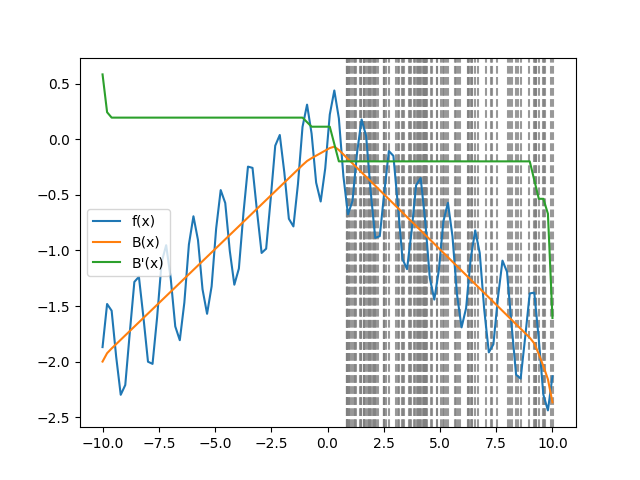
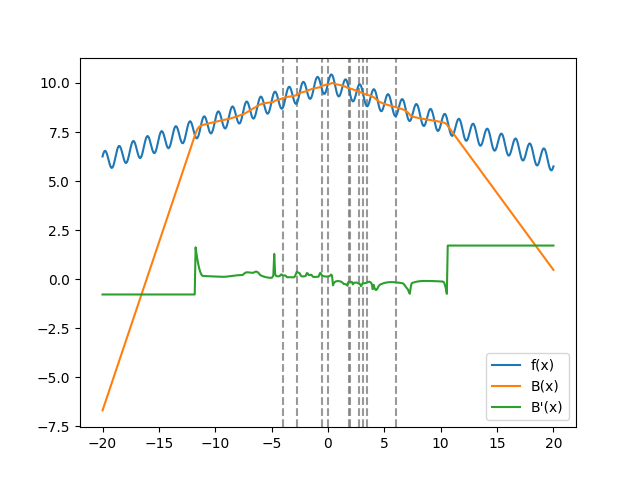
The Friends Of Mr.Cairo

diff --git a/experiments/splines_pointgeneration.py b/experiments/splines_pointgeneration.py
@@ -6,26 +6,30 @@ from variational.spline_estimation import get_BSpline_decomposition
 from variational.data_generation import generate_data
 
 N = 100
+N2 = 10
 order = 4
-rho = 0
+rho = 1/2
 
 def f(x):
     main = -0.2 * (np.abs(x))
     wiggle = 0.5 * np.sin(5*x)
     dens = np.exp(main + wiggle)
-    return np.log(dens)
+    return np.log(dens)+10
 
-X = np.linspace(-10, 10, N)
+X = np.random.normal(0, 5, N)
+X = np.sort(X)
 
 Beta, BSpline_Basis, _ = get_BSpline_decomposition(f, X, order=order, Constraint="Concavity")
-approx_curve = Curve(BSpline_Basis, Beta.reshape(-1, 1))
+approx_curve = Curve(BSpline_Basis, Beta)
 knots = BSpline_Basis.knots
 
 deriv_matrix = BSpline_Basis.evaluate(knots[order], d=1)[0]
-Deriv_right = (deriv_matrix @ Beta.reshape(-1,1))[0]
+print(BSpline_Basis.evaluate(0, d=1))
+print(BSpline_Basis.evaluate(0, d=1)@ Beta, BSpline_Basis.evaluate(0, d=1).shape)
+Deriv_right = (deriv_matrix @ Beta)[0]
 
 deriv_matrix = BSpline_Basis.evaluate(knots[order+N], d=1)[0]
-Deriv_left = (deriv_matrix @ Beta.reshape(-1,1))[0]
+Deriv_left = (deriv_matrix @ Beta)[0]
 
 def B_Prime(x):
     if x>knots[order+N]:
@@ -33,7 +37,7 @@ def B_Prime(x):
     elif x<knots[order]:
         return Deriv_left
     deriv_matrix = BSpline_Basis.evaluate(x, d=1)[0]
-    return (deriv_matrix @ Beta.reshape(-1,1))[0]
+    return (deriv_matrix @ Beta)[0]
 
 def B(x):
     if x>knots[order+N]:
@@ -42,9 +46,9 @@ def B(x):
         return B_Prime(knots[order])*(x - knots[0]) + approx_curve.evaluate(knots[order])[0]
     return approx_curve.evaluate(x)[0]
 
-X2 = generate_data(B, B_Prime, N, rho)
+X2 = generate_data(B, B_Prime, N2, rho)
 
-x_axis = X
+x_axis = np.linspace(-20, 20, 500)
 y_f = np.array([f(x) for x in x_axis])
 y_B = np.array([B(x) for x in x_axis])
 y_Bprime = np.array([B_Prime(x) for x in x_axis])

diff --git a/experiments/logdens_splineestimation_pointsinfluence.py b/experiments/logdens_splineestimation_pointsinfluence.py
@@ -4,10 +4,6 @@ from splipy import Curve
 
 from variational.spline_estimation import get_BSpline_decomposition
 
-N = 2
-order = 4
-epsilon = 1e-10
-
 N = 100
 order = 4
 rho = 0
@@ -18,35 +14,24 @@ def f(x):
     dens = np.exp(main + wiggle)
     return np.log(dens)
 
-X = np.linspace(-10, 10, N)
+X = np.random.normal(0, 2, N)
+X = np.sort(X)
 
 Beta, BSpline_Basis, _ = get_BSpline_decomposition(f, X, order=order, Constraint="Concavity")
 approx_curve = Curve(BSpline_Basis, Beta.reshape(-1, 1))
 knots = BSpline_Basis.knots
 
-deriv_matrix = BSpline_Basis.evaluate(knots[order], d=1)[0]
-Deriv_right = (deriv_matrix @ Beta.reshape(-1,1))[0]
-
-deriv_matrix = BSpline_Basis.evaluate(knots[order+N], d=1)[0]
-Deriv_left = (deriv_matrix @ Beta.reshape(-1,1))[0]
 
 def B_Prime(x):
-    if x>knots[order+N]:
-        return Deriv_right
-    elif x<knots[order]:
-        return Deriv_left
     deriv_matrix = BSpline_Basis.evaluate(x, d=1)[0]
-    return (deriv_matrix @ Beta.reshape(-1,1))[0]
+    return (deriv_matrix @ Beta)[0]
 
 def B(x):
-    if x>knots[order+N]:
-        return B_Prime(knots[order+N])*(x - knots[-1]) + approx_curve.evaluate(knots[order+N])[0]
-    elif x<knots[order]:
-        return B_Prime(knots[order])*(x - knots[0]) + approx_curve.evaluate(knots[order])[0]
-    return approx_curve.evaluate(x)[0]
+    matrix = BSpline_Basis.evaluate(x)[0]
+    return (matrix @ Beta)[0]
 
 
-x_axis = X
+x_axis = np.linspace(X[0], X[-1], 700)
 y_axis1 = np.array([B(x) for x in x_axis])
 y_axis1_deriv = np.array([B_Prime(x) for x in x_axis])
 y_true1 = f(x_axis)

diff --git a/variational/spline_estimation.py b/variational/spline_estimation.py
@@ -2,10 +2,6 @@ import numpy as np
 import splipy
 from scipy.optimize import lsq_linear
 
-
-def f(x):
-    return -0.5 * np.log(2 * np.pi) - 0.5 * x**2
-
 def aux_concavity_matrix(i,j):
     if i<j:
         return 0
@@ -36,6 +32,7 @@ def get_BSpline_decomposition(f, X, order=4, Constraint="Concavity", a=None, b=N
     X_Tilde = np.array([BSpline_Basis.evaluate(x)[0] for x in sorted_X])
 
     if Constraint == "Concavity":
+
         Sigma = np.array([[aux_concavity_matrix(i+1, j+1)
                            for j in range(N+M)] for i in range(N+M)])
         X_Tilde = np.matmul(X_Tilde, Sigma)
@@ -54,4 +51,4 @@ def get_BSpline_decomposition(f, X, order=4, Constraint="Concavity", a=None, b=N
     else:
         raise ValueError("Constraint not recognized")
 
-    return beta, BSpline_Basis, BSpline_Basis_lower
+    return beta.reshape(-1,1), BSpline_Basis, BSpline_Basis_lower

diff --git a/variational/data_generation.py b/variational/data_generation.py
@@ -13,7 +13,9 @@ def Phi_prime(x, B_Prime, mode):
 def generate_data(B, B_Prime, N, rho):
 
     mode = find_mode(B)
-    s, z = find_sz(B, rho)
+
+
+    s, z = find_sz(lambda x: Phi(x, B, mode), rho)
 
     dzeta, ksi = -Phi_prime(z, B_Prime, mode), Phi_prime(-s, B_Prime, mode)
 
@@ -21,8 +23,8 @@ def generate_data(B, B_Prime, N, rho):
     z_tilde, s_tilde = z - r*rho, s - p*rho
     q = z_tilde + s_tilde
 
-    print("Generating data with parameters:")
-    print(f"mode: {mode}, s: {s}, s_tilde: {s_tilde}, z: {z}, z_tilde: {z_tilde}, ksi: {ksi}, dzeta: {dzeta}")
+    #print("Generating data with parameters:")
+    #print(f"mode: {mode}, s: {s}, s_tilde: {s_tilde}, z: {z}, z_tilde: {z_tilde}, ksi: {ksi}, dzeta: {dzeta}")
 
     samples = []
 

diff --git a/variational/optimization.py b/variational/optimization.py
@@ -5,10 +5,10 @@ def find_mode(B):
     res = minimize(lambda x: -B(x), x0=0, method='Powell')
     return res.x[0]
 
-def find_sz(B, rho):
+def find_sz(Phi, rho):
 
-    gs = lambda x: B(-np.abs(x)) + rho
-    gz = lambda x: B(np.abs(x)) + rho
+    gs = lambda x: Phi(-np.abs(x)) + rho
+    gz = lambda x: Phi(np.abs(x)) + rho
 
     s = np.abs(fsolve(gs, x0=0)[0])
     z = np.abs(fsolve(gz, x0=0)[0])

diff --git a/experiments/logdense_splinederivestimation.py b/experiments/logdense_splinederivestimation.py
@@ -20,7 +20,7 @@ knots = BSpline_Basis.knots
 
 def B_Prime(x):
     deriv_matrix = BSpline_Basis.evaluate(x, d=1)[0]
-    return (deriv_matrix @ Beta.reshape(-1,1))[0]
+    return (deriv_matrix @ Beta)[0]
 
 def B(x):
     return approx_curve.evaluate(x)[0]
